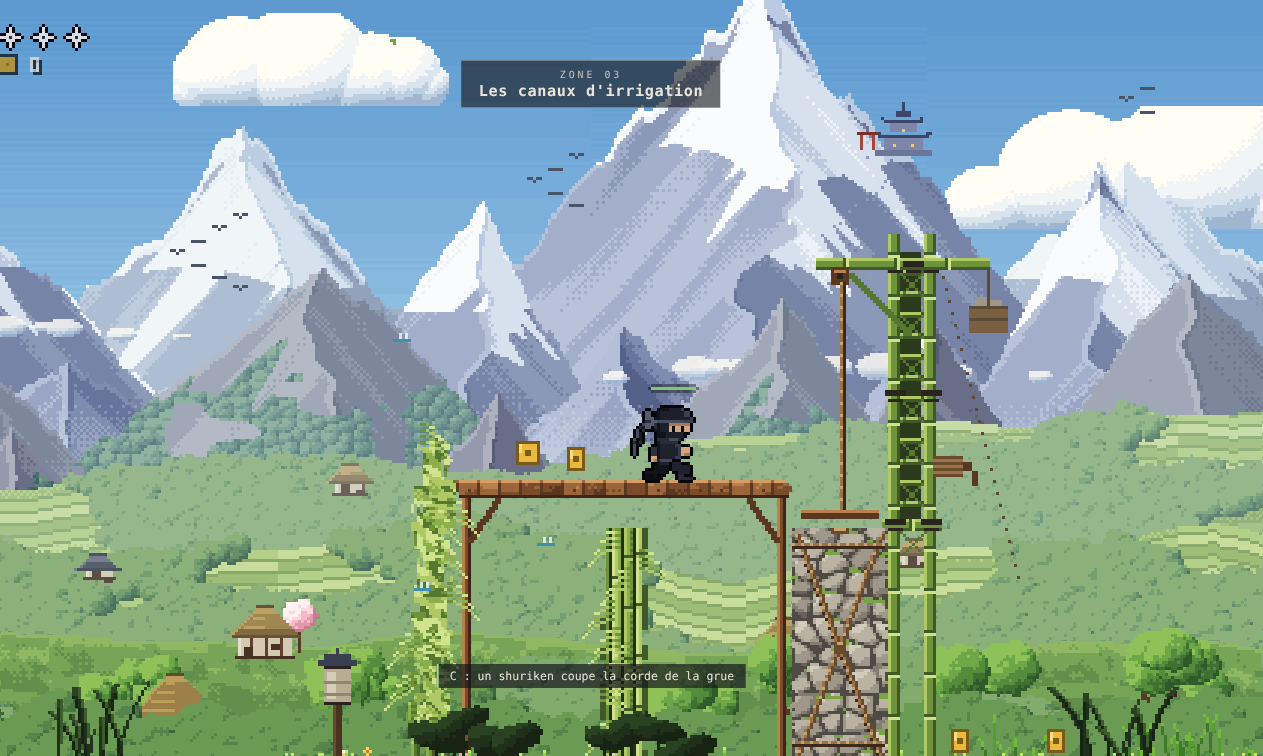
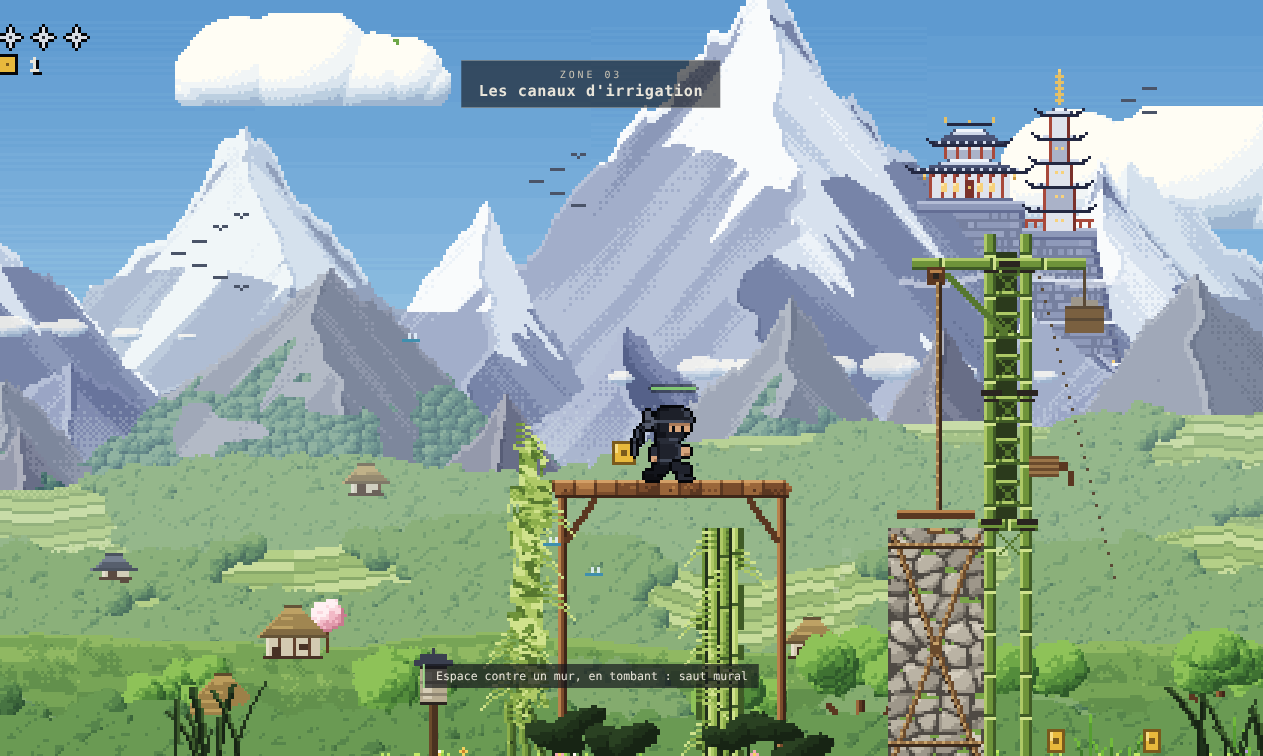
Grue : la plateforme s'arrête à trois cases de la corde (hors de portée du sabre)
La plateforme de la grue est raccourcie de deux cases : son bord est à 52 px
de la corde ; le sabre ne l'atteint pas (KAGE tombe en frappant), seul le
shuriken la coupe. Tests de la grue adaptés, carte mentale et REPRISE à jour.

Claude-Session: https://claude.ai/code/session_01A2iwx5pvEypuY4LKpvnPNM

diff --git a/docs/carte-mentale/index.html b/docs/carte-mentale/index.html
@@ -355,32 +355,32 @@ const BRANCHES = [
     files: ['src/game/chapters/potager.js#L240'], see: ['hab-kappa'] },
   { id: 'pot-z04', t: '04 · Le vieux verger', s: 'fait', d: 'Premiers WARA, coup de pied',
     txt: "Arbres fruitiers tortueux de tailles variées, plantés au sol (la voûte de branches, qui flottait sur les écrans hauts, a été retirée), grosse branche praticable dans un grand cerisier. Premiers ennemis et apprentissage du coup de pied.",
-    files: ['src/game/chapters/potager.js#L333'], see: ['ennemi-wara', 'ennemi-nuisible'] },
+    files: ['src/game/chapters/potager.js#L335'], see: ['ennemi-wara', 'ennemi-nuisible'] },
   { id: 'pot-z05', t: '05 · La serre de bambou', s: 'fait', d: 'Dash, glissade, sortie par la charpente',
     txt: "Une grande serre (13 cases de haut) : voûte en arceaux, toiles déchirées, hautes étagères à bocaux, établi, semis, plantes suspendues, gourdes, rais de lumière. Dedans : un feuillage bas de bambous (dash), des étagères de pots, une étagère renversée (glissade). La sortie est bouchée par des bambous très serrés : on se glisse dans un puits, on y monte en sauts muraux, on traverse la poutre de charpente par-dessous (5 ryō le long de la poutre) et on sort par le haut ; 7 ryō de plus sur le faîtage, pour qui ose monter sur le toit. Le toit est une toile en pointes, façon chapiteau, tendue par de fines perches de bambou (avec leurs fanions délavés), comme dans la première version. Dehors, un bosquet : feuillage bas puis mur de bambous (sauts muraux).",
-    files: ['src/game/chapters/potager.js#L388'], links: [['GIF : sortie par la charpente', 'docs/potager/serre_charpente.gif'], ['Toit de toile', 'docs/potager/serre_toit_toile.png']] },
+    files: ['src/game/chapters/potager.js#L390'], links: [['GIF : sortie par la charpente', 'docs/potager/serre_charpente.gif'], ['Toit de toile', 'docs/potager/serre_toit_toile.png']] },
   { id: 'pot-z06', t: '06 · La grange abandonnée', s: 'fait', d: 'Caisses à briser au sabre',
     txt: "Grand toit de chaume, mur de planches, outils suspendus, pénombre et halos de lanternes. Trois niveaux : sol, mezzanine, grenier. On monte sur la mezzanine par un petit escalier de bottes de foin incassables (2 cases, puis 1), entre les deux premières plateformes : avant, une caisse seule, qu'on brisait au lieu de monter dessus (et qui était trop basse). Trois ryō sur la poutre du milieu (la plateforme de droite). Les poteaux d'angle passent sous le chaume (le toit les recouvre).",
-    files: ['src/game/chapters/potager.js#L454'], links: [['Marches de foin', 'docs/potager/grange_marches_foin.png']], see: ['pot-grenier', 'sys-caisses'] },
+    files: ['src/game/chapters/potager.js#L456'], links: [['Marches de foin', 'docs/potager/grange_marches_foin.png']], see: ['pot-grenier', 'sys-caisses'] },
   { id: 'pot-grenier', t: 'Le grenier de la grange', s: 'fait', d: '3e étage, 5 ryō, une caisse et un coffre',
     txt: "On monte de la mezzanine par des bottes de foin jusqu'au plancher du grenier. Pignon en planches, chevrons, lucarne, kakis séchés, chouette. Le vieux coffre (nagamochi) s'ouvre avec ↑ / E (ou le bouton) : le couvercle bascule et 10 ryō jaillissent en gerbe, puis retombent devant lui ; coffre ouvert sauvegardé (chests). Un plafond invisible suit la pente du toit. Le toit reste plein de loin et s'efface quand KAGE monte.",
     files: ['src/game/potager/props.js', 'src/game/potager/live.js'], links: [['Planche du grenier', 'docs/potager/grenier_grange.png']], see: ['hab-chouette', 'proj-pr19'] },
   { id: 'pot-z07', t: '07 · Le jardin des sentinelles', s: 'fait', d: 'Bassin, pont rouge, TATE, grande porte',
     txt: "Bassin aux carpes, pont rouge rompu, sanctuaire, renards de pierre, la maison du gardien, un TATE et la grande porte en bois. Le bosquet des sentinelles : un feuillage bas (dash), puis deux bouquets de bambous serrés plantés en travers du chemin, qu'on franchit en sauts muraux.",
-    files: ['src/game/chapters/potager.js#L514'], see: ['ennemi-tate', 'hab-koi'] },
+    files: ['src/game/chapters/potager.js#L516'], see: ['ennemi-tate', 'hab-koi'] },
   { id: 'pot-z08', t: '08 · Le comptoir du voyageur', s: 'fait', d: 'Le marchand, puis la route des collines',
     txt: "Échoppe à l'ombrelle rouge et à l'auvent indigo, poteau indicateur, puis une pépinière en étages (plateformes sur pilotis cultivées, échelles) et la route vers les collines, jusqu'au champ du corbeau.",
-    files: ['src/game/chapters/potager.js#L565'], see: ['hab-marchand', 'pot-z09'] },
+    files: ['src/game/chapters/potager.js#L567'], see: ['hab-marchand', 'pot-z09'] },
   { id: 'pot-z09', t: '09 · Le champ du corbeau', s: 'fait', d: 'Le mini-boss, puis la porte du temple',
     txt: "Arène de 66 cases : lanterne à l'entrée, rangs de navets, choux, radis, carottes, poireaux, arbres fruitiers, treillis, deux tas de pierres (où le corbeau se sert), quatre plateformes de bois fragiles sur pilotis (deux hauteurs, échelles, pots), et l'épouvantail géant où trône KARASU-KASHI. Au bout, la grande porte du temple (voir sa boîte) reste fermée tant qu'il n'est pas vaincu ; le monde s'arrête derrière elle.",
-    files: ['src/game/chapters/potager.js#L595', 'src/game/potager/props.js', 'src/game/potager/live.js'], links: [['Porte ouverte', 'docs/enemies/karasu_porte_ouverte.png']], see: ['ennemi-karasu', 'pot-porte'] },
+    files: ['src/game/chapters/potager.js#L597', 'src/game/potager/props.js', 'src/game/potager/live.js'], links: [['Porte ouverte', 'docs/enemies/karasu_porte_ouverte.png']], see: ['ennemi-karasu', 'pot-porte'] },
   { id: 'pot-porte', t: 'La porte du temple', s: 'fait', d: 'La fin du chapitre, au bout du monde',
     txt: "Un pavillon de porte (rōmon) peint en vraie perspective (temple.js : chaque point est projeté par une petite caméra) : vu de trois quarts, sa façade tournée vers KAGE, piliers vermillon, enduit et fenêtres à barreaux, consoles dorées, grand toit de tuiles aux coins relevés, plaque du nom. Son panneau droit touche le bord du monde : rien ne se voit derrière. Fermée, une corde sacrée et un talisman la scellent ; à la défaite du corbeau, le talisman se déchire et les deux vantaux pivotent lentement vers KAGE (4,2 s, aux deux tiers : ils cachent encore une part du passage). KAGE ne passe pas devant les vantaux : arrivé au seuil, il entre dans le passage (la porte le dessine entre le couloir et la façade), rapetisse avec la profondeur et s'efface ; puis la fin du chapitre. Au fond d'un couloir sombre, une scène peinte : un coin de la forêt dense et mystérieuse du chapitre 2 (choix de Raph, d'après son image de référence : brume bleu-vert, troncs droits à perte de vue, sapins étagés, grands troncs moussus à l'écorce rousse, rais de lumière, fougères, sentier et une lueur au fond). Les autres scènes restent à l'essai avec ?porte=bambous|escalier|torii|brume.",
     keys: ['Façade tournée de 28°, perspective à 260 px', 'Ouverture : 4,2 s, 62°, on passe aux 3/5', 'Intérieur : la forêt du chapitre 2'],
-    files: ['src/game/potager/temple.js', 'src/game/potager/live.js', 'src/game/level.js', 'src/game/chapters/potager.js#L595'],
+    files: ['src/game/potager/temple.js', 'src/game/potager/live.js', 'src/game/level.js', 'src/game/chapters/potager.js#L597'],
     links: [['GIF : la porte s\'ouvre', 'docs/potager/porte_temple.gif'], ['GIF : KAGE entre', 'docs/potager/porte_entree.gif'], ['Fermée, s\'ouvre, ouverte', 'docs/potager/porte_temple.png'], ['La forêt par la porte', 'docs/potager/porte_foret.png'], ['Les autres intérieurs essayés', 'docs/potager/porte_interieurs.png']], see: ['pot-z09', 'ennemi-karasu', 'monde-ch2'] },
   { id: 'pot-grue', t: 'La grue de bambou', s: 'fait', d: 'Énigme : dash, sauts muraux, shuriken',
-    txt: "Au bout des canaux, un mur de blocs de pierre ficelés en croix pend à une grue de bambou et bouche le passage ; une fosse l'attend dessous. Le mât de la grue, juste après la fosse, est une tour de bambou au treillis serré : on ne passe pas par-dessus les blocs (l'ancien surplomb rocheux, qui semblait flotter, a disparu) ; en bas, on passe entre ses montants. On se glisse au dash sous un premier mur de bambous, on monte en sauts muraux jusqu'à la plateforme de la grue, et un shuriken coupe la corde : les blocs tombent et comblent la fosse à ras du sol. Depuis le sol, la corde est hors de portée. Grue coupée sauvegardée (cranes).",
+    txt: "Au bout des canaux, un mur de blocs de pierre ficelés en croix pend à une grue de bambou et bouche le passage ; une fosse l'attend dessous. Le mât de la grue, juste après la fosse, est une tour de bambou au treillis serré : on ne passe pas par-dessus les blocs (l'ancien surplomb rocheux, qui semblait flotter, a disparu) ; en bas, on passe entre ses montants. On se glisse au dash sous un premier mur de bambous, on monte en sauts muraux jusqu'à la plateforme de la grue (elle s'arrête à trois cases de la corde : le sabre ne l'atteint pas), et un shuriken coupe la corde : les blocs tombent et comblent la fosse à ras du sol. Depuis le sol, la corde est hors de portée. Grue coupée sauvegardée (cranes).",
     files: ['src/game/chapters/potager.js', 'src/game/level.js', 'src/game/potager/live.js', 'src/game/potager/props.js'], links: [['GIF : la grue', 'docs/potager/grue_bambou.gif'], ['Le mât en tour', 'docs/potager/grue_mat.png']], see: ['pot-z03', 'kage-shuriken'] },
   { id: 'pot-pilotis', t: 'Plateformes sur pilotis', s: 'fait', d: 'Cultivées, à plusieurs niveaux, échelles',
     txt: "Des plateformes de bois légères (« - », traversables par-dessous) : le jardin sur pilotis des canaux, les plateformes de cueillette du verger, la pépinière en étages du comptoir du voyageur, comme la plateforme de récolte près de la rizière. Cultures et pots dessus, échelles entre les niveaux, ryō en haut. Les poteaux montent jusque sous les planches (elles ne font que 6 px d'épaisseur), avec leurs jambes de force. Les échelles partent du bout de la plateforme du dessous et s'accrochent au début de celle du dessus (Builder.ladder).",

diff --git a/src/game/chapters/potager.js b/src/game/chapters/potager.js
@@ -313,7 +313,9 @@ function build() {
   b.hint('wall', s0 + 4);
   b.block(s0 + 3, 1, G - 10, G - 5, '|');            // mur de bambous de gauche : on se glisse dessous
   b.block(s0 + 7, 1, G - 8, G - 4, '|');             // mur de droite (le puits fait 3 cases de large)
-  b.row(s0 + 4, 7, G - 9, '-');                      // la plateforme de la grue, en haut du puits
+  // la plateforme de la grue, en haut du puits : elle s'arrête à trois cases de la
+  // corde (le sabre ne l'atteint pas, il faut le shuriken)
+  b.row(s0 + 4, 5, G - 9, '-');
   b.hint('rope', s0 + 8);
   // le mât de la grue, juste après la fosse : une tour de bambou infranchissable
   // en haut (on ne passe pas par-dessus les blocs) ; en bas, entre ses montants,

diff --git a/docs/REPRISE.md b/docs/REPRISE.md
@@ -230,7 +230,7 @@ L'utilisateur a trouvé le portail « magnifique » et demandé six retouches de
 
 1. **KAGE entre vraiment dans la porte** : au seuil de la porte ouverte (`startEntering`, `main.js`), il n'est plus dessiné à sa place ; la porte le dessine entre le couloir et la façade (`TempleGate.inside`) : il s'enfonce dans le passage en marchant (60 px de profondeur, 1,8 s), rapetisse avec la perspective (`scaleAt`), passe derrière les vantaux et le pilier et s'efface ; puis l'écran de fin. Il ne peut plus passer devant les vantaux. GIF : `docs/potager/porte_entree.gif`.
 2. **Le dojo final du lointain** (avant-goût du chapitre 7, `paintDojo` dans `backdrop.js`) : agrandi et bien plus majestueux — deux terrasses sur de grands murs de pierre en gradins enneigés (ishigaki, pierres inégales), la grande salle au double toit aux coins relevés (piliers vermillon, fenêtres et lanternes allumées, ornements d'or), une pagode à cinq étages coiffée d'or, de la neige sur les toits, un escalier en lacets bordé de lanternes jusqu'à un torii, une écharpe de brume. Placé plus bas sur le flanc du Mont Kagero pour rester dans l'image. Image : `docs/potager/dojo_final.png`.
-3. **La grue sans rocher flottant** : le surplomb rocheux est supprimé ; le **mât de la grue** est déplacé juste après la fosse et devient une **tour de bambou** (deux montants, treillis serré de bambous ligaturés en haut, linteau ; `towerY`, dessin dans `Live.crane`) ; des cases `%` invisibles le rendent infranchissable du haut de l'image jusqu'au-dessus du passage : par la plateforme de la grue, on bute contre lui (on ne passe pas par-dessus les blocs) ; il faut couper la corde, redescendre et passer en bas, entre ses montants, une fois la fosse comblée. Test dédié. Image : `docs/potager/grue_mat.png`.
+3. **La grue sans rocher flottant** : le surplomb rocheux est supprimé ; le **mât de la grue** est déplacé juste après la fosse et devient une **tour de bambou** (deux montants, treillis serré de bambous ligaturés en haut, linteau ; `towerY`, dessin dans `Live.crane`) ; des cases `%` invisibles le rendent infranchissable du haut de l'image jusqu'au-dessus du passage : par la plateforme de la grue, on bute contre lui (on ne passe pas par-dessus les blocs) ; il faut couper la corde, redescendre et passer en bas, entre ses montants, une fois la fosse comblée. Test dédié. Puis, à la demande de l'utilisateur, la plateforme de la grue a été raccourcie de deux cases : elle s'arrête à trois cases de la corde (52 px du bord) ; le sabre ne l'atteint pas (seul le shuriken coupe la corde, `Level.cutRope` n'est appelé que par `shuriken.js`). Image : `docs/potager/grue_mat.png`.
 4. **Passages à glissade** : KAGE glisse à 20-21 px de haut (agrandi de 20 %) dans des passages de 16 px ; le bas des feuillages suspendus (`canopyColor`) et de l'étagère renversée (`shelfColor`) est remonté d'environ 6 px (bord déchiqueté), les feuilles qui pendaient dans le passage sont raccourcies : sa tête n'est plus dans les feuilles. Les collisions ne changent pas. Image : `docs/potager/glissade_feuillage.png`.
 5. **Échelles** : elles partent du bout de la plateforme du dessous et s'accrochent au début de celle du dessus (`Builder.ladder(bx, tx, rangée, hauteur)`, échelle penchée dessinée par `ladder` avec `bx`/`tx`) : jardin sur pilotis, plateformes de cueillette, pépinière. Image : `docs/potager/echelles_pepiniere.png`.
 6. **Toit de la serre** : 7 ryō sur le faîtage (on y monte depuis le bout de la poutre de charpente), pour pousser à s'aventurer tout en haut.
